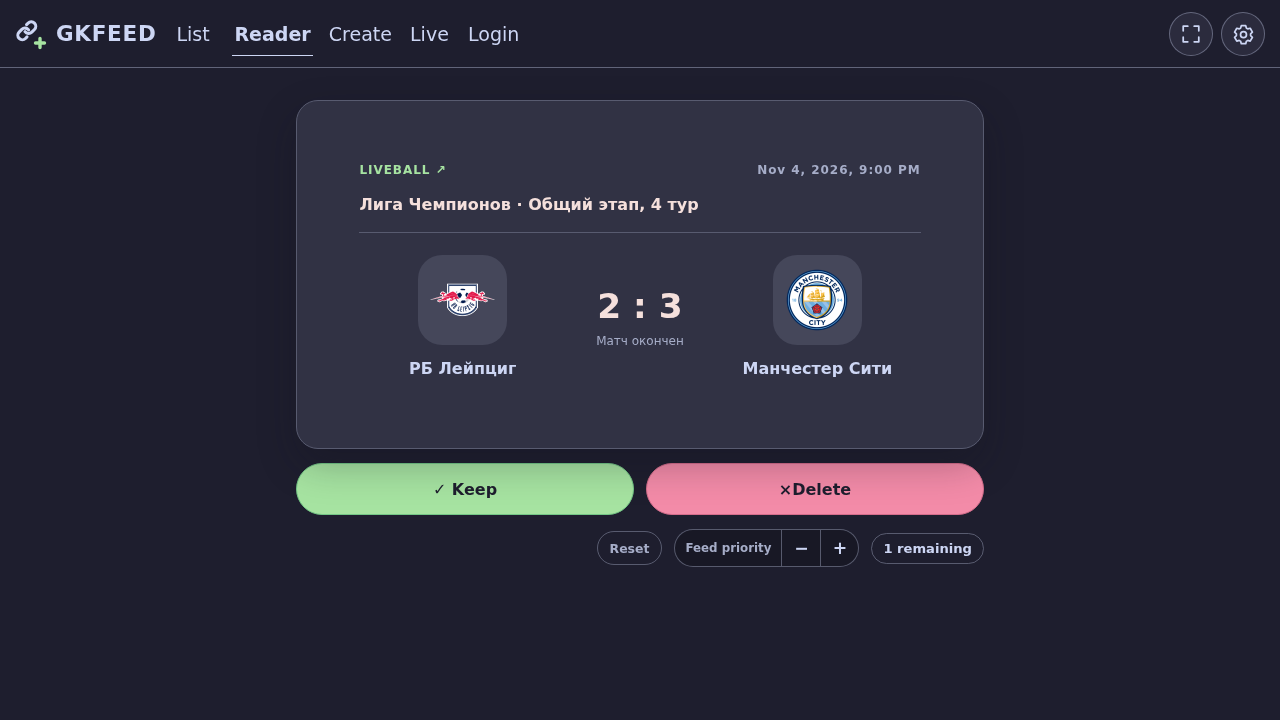
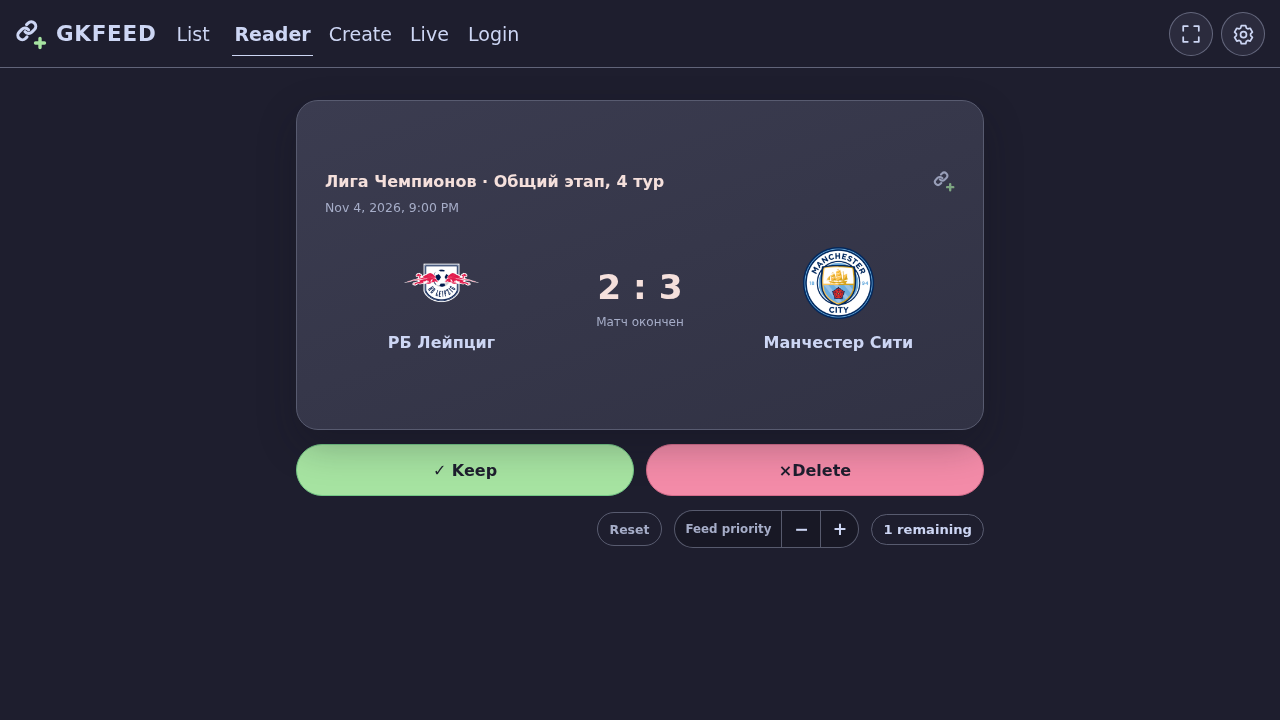
style: simplify LiveBall match card

diff --git a/src/styles/reader/onefootball.css b/src/styles/reader/onefootball.css
@@ -235,43 +235,82 @@
 }
 
 .reader-card.reader-card--liveball {
-  background: var(--color-card);
-  border-color: var(--color-card-border);
+  padding: 0;
 }
+
 .liveball-match {
   display: grid;
-  gap: 18px;
-  padding: clamp(22px, 5cqw, 38px);
+  align-content: center;
+  gap: 8px;
+  min-height: 100%;
+  padding: clamp(18px, 4vw, 28px);
   color: var(--color-ink);
   text-decoration: none;
+  border-radius: inherit;
 }
-.liveball-match:focus-visible { outline: 3px solid var(--color-focus); outline-offset: -4px; }
+
+.liveball-match:focus-visible {
+  outline: 3px solid var(--color-focus);
+  outline-offset: -3px;
+}
+
 .liveball-match__header {
   display: flex;
+  align-items: center;
   justify-content: space-between;
-  gap: 12px;
-  color: var(--color-muted);
-  font-size: .75rem;
-  font-weight: 700;
-  letter-spacing: .08em;
+  gap: 16px;
 }
-.liveball-match__header span:first-child { color: var(--color-accent); }
-.liveball-match__competition { color: var(--color-ink-strong); font-size: 1rem; font-weight: 700; }
+
+.liveball-match__competition {
+  color: var(--color-ink-strong);
+  font-size: 1rem;
+  font-weight: 700;
+}
+
+.liveball-match__brand {
+  flex: none;
+  color: var(--color-muted);
+  opacity: .65;
+}
+
+.liveball-match__brand svg {
+  display: block;
+  width: 22px;
+  height: 22px;
+}
+
+.liveball-match__date {
+  color: var(--color-muted);
+  font-size: .78rem;
+}
+
 .liveball-match__teams {
   display: grid;
   grid-template-columns: minmax(0, 1fr) minmax(75px, .6fr) minmax(0, 1fr);
   align-items: center;
   gap: 12px;
   padding: 22px 0 8px;
-  border-top: 1px solid var(--color-card-border);
 }
-.liveball-match__team { display: grid; justify-items: center; gap: 14px; text-align: center; overflow-wrap: anywhere; }
+
+.liveball-match__team {
+  display: grid;
+  justify-items: center;
+  gap: 12px;
+  text-align: center;
+  overflow-wrap: anywhere;
+}
+
 .liveball-match__team:nth-child(2) { grid-column: 3; grid-row: 1; }
 .liveball-match__crest {
-  display: grid; place-items: center; width: clamp(60px, 13cqw, 96px); aspect-ratio: 1;
-  border-radius: 24px; background: var(--color-surface-muted); font-size: 2rem; font-weight: 800;
+  display: grid;
+  place-items: center;
+  width: clamp(54px, 11cqw, 80px);
+  aspect-ratio: 1;
+  font-size: 2rem;
+  font-weight: 800;
+  color: var(--color-muted);
 }
-.liveball-match__crest img { width: 72%; height: 72%; object-fit: contain; }
+.liveball-match__crest img { width: 100%; height: 100%; object-fit: contain; }
 .liveball-match__result { grid-column: 2; grid-row: 1; display: grid; justify-items: center; gap: 8px; text-align: center; }
 .liveball-match__result strong { color: var(--color-ink-strong); font-size: clamp(1.4rem, 5cqw, 2.4rem); white-space: nowrap; }
 .liveball-match__result span { color: var(--color-muted); font-size: .75rem; }

diff --git a/src/react/components/previews/LiveballMatch.tsx b/src/react/components/previews/LiveballMatch.tsx
@@ -1,5 +1,6 @@
 import { useState } from 'react';
 import { useTranslation } from 'react-i18next';
+import { BrandMark } from '../Icons';
 import type { FeedItem } from '../../types';
 import type { parseLiveballMatch } from '../../domain/liveballMatch';
 import type { OneFootballMatchSnapshot } from '../../../../shared/previewContracts';
@@ -15,8 +16,11 @@ export function LiveballMatch({ item, match, snapshot = null }: {
     ? new Intl.DateTimeFormat(i18n.language, { dateStyle: 'medium', timeStyle: 'short' }).format(new Date(snapshot.startsAt)) : null;
   return (
     <a className="liveball-match" href={item.link} target="_blank" rel="noreferrer">
-      <span className="liveball-match__header"><span>LIVEBALL <span aria-hidden="true">↗</span></span><span>{date}</span></span>
-      <span className="liveball-match__competition">{snapshot?.competition || match.competition}</span>
+      <span className="liveball-match__header">
+        <span className="liveball-match__competition">{snapshot?.competition || match.competition}</span>
+        <span className="liveball-match__brand"><BrandMark /></span>
+      </span>
+      {date && <span className="liveball-match__date">{date}</span>}
       <span className="liveball-match__teams">
         {teams.map((team, index) => (
           <span className="liveball-match__team" key={index}>

diff --git a/e2e/liveball.spec.ts b/e2e/liveball.spec.ts
@@ -21,4 +21,6 @@ test('shows a LiveBall match preview', async ({ page }) => {
   await expect(page.getByText('Манчестер Сити', { exact: true })).toBeVisible();
   await expect(page.getByText('2 : 3', { exact: true })).toBeVisible();
   await expect(page.locator('.liveball-match__crest img')).toHaveCount(2);
+  await expect(page.locator('.liveball-match')).toHaveAttribute('href', 'https://liveball.sx/match/1635710');
+  await expect(page.getByText('LIVEBALL', { exact: true })).toHaveCount(0);
 });
